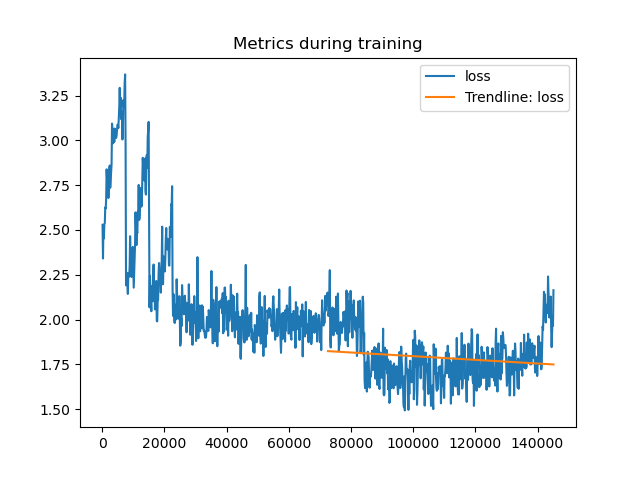
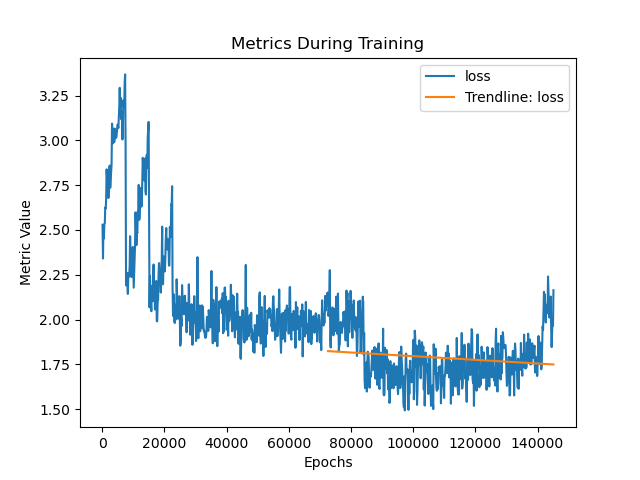
updated metrics visualization accordingly; minor fixes to inference_visualizer; added inference_visualizations for all geoclip configurations

Changed region(s): [[0.3438, 0.0625, 0.6562, 0.125], [0.0312, 0.4062, 0.0625, 0.5938], [0.4688, 0.9375, 0.5625, 0.9688]]

diff --git a/visualizers/inference/inference_visualizer.py b/visualizers/inference/inference_visualizer.py
@@ -23,7 +23,7 @@ class InferenceVisualizer:
             image_name = inference_file.replace(".json", "")
 
             inference_path = os.path.join(inference_dir, inference_file)
-            with open(inference_path, "r") as json_file:
+            with open(inference_path, encoding="utf8") as json_file:
                 self.inference_informations[image_name] = json.load(json_file)
 
     def load_gadm(self, shapefile_path):
@@ -112,7 +112,7 @@ class InferenceVisualizer:
             plt.suptitle("Inference Results for Image", fontsize=40)
             plt.tight_layout()
 
-            inference_path = os.path.join(self.save_path, f"{inference_name}.mp4")
+            inference_path = os.path.join(self.save_path, f"{inference_name}.gif")
             ani.save(inference_path, writer="ffmpeg")
 
 
